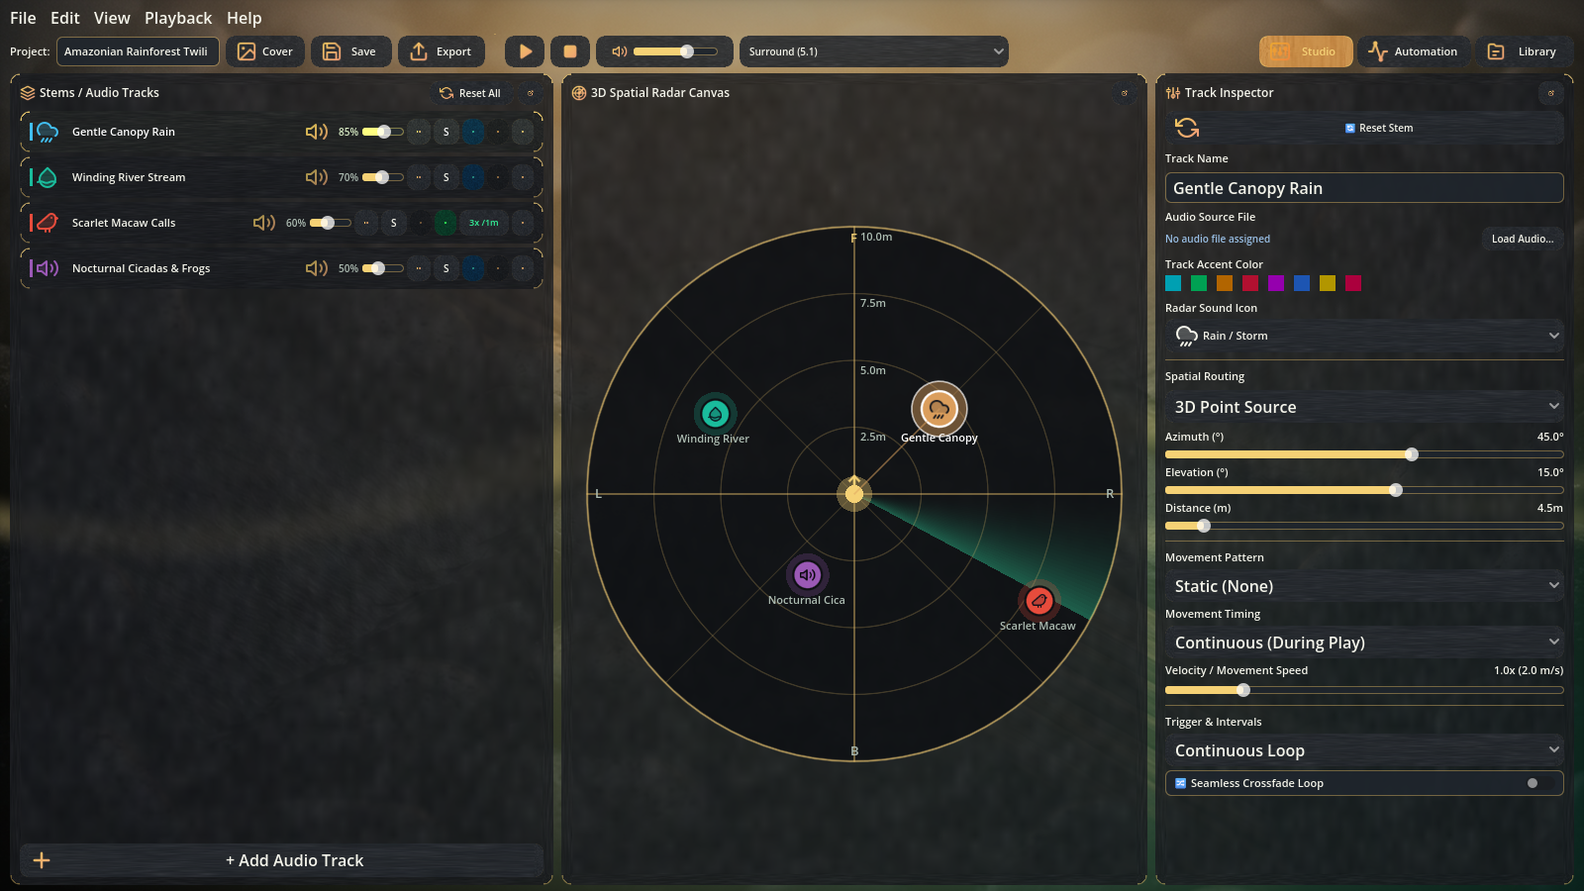
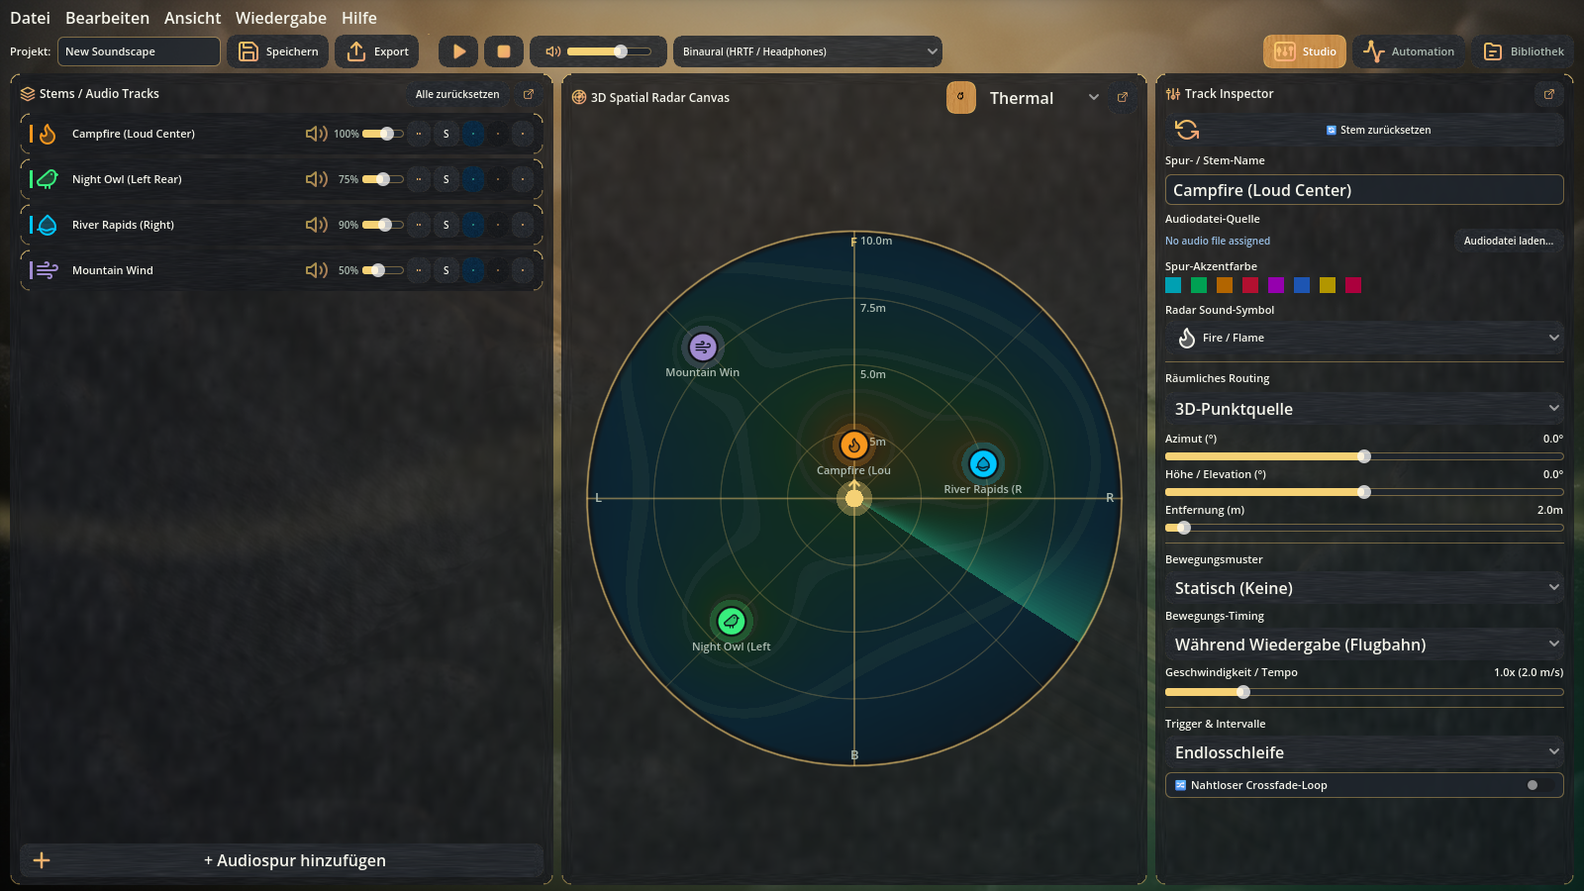
docs: update README, Wiki, and screenshots to latest feature set and add release downloads

diff --git a/README.md b/README.md
@@ -22,7 +22,10 @@ A modern, high-performance desktop Digital Audio Workstation (DAW), 3D spatial s
 **3D Soundscape Studio** and the **3D Ambient Player** empower sound designers, composers, tabletop RPG masters, game developers, and relaxation listeners to craft and enjoy living virtual audio environments in 3D space:
 
 - **🎧 Dedicated Standalone 3D Ambient Player (`3D-Ambient-Player`):** A lightweight, meditative player for Windows, Linux, macOS, Android, and iOS. Features an expandable Atmosphere Stem Mixer drawer, breathing vinyl visualizer halo, sleep timer with 15-second gentle audio fade-out, 1-click `.3dscape` package import, and theme customization without DAW overhead.
-- **💡 Native Philips Hue & Home Assistant Smart Lighting:** Synchronize your physical room lights with your soundscape. Features local Hue Bridge auto-discovery, 30-second push-link pairing, wide-gamut CIE 1931 xy color math, instant lightning strobe flashes ($0\text{ms}$ transition), fireplace hearth flicker, and listener proximity dimming.
+- **💡 Native Philips Hue & Home Assistant Smart Lighting:** Synchronize physical room lights with your soundscape. Features local Hue Bridge auto-discovery, 30-second push-link pairing, wide-gamut CIE 1931 xy color math, instant lightning strobe flashes ($0\text{ms}$ transition), fireplace hearth flicker, and listener proximity dimming.
+- **🧱 Acoustic Environments, Raycast Occlusion & Barriers:** Place physical barrier walls directly on the soundstage. Features real-time line-of-sight raycast occlusion that realistically muffles high frequencies while allowing low-end diffraction, plus environmental room reverb presets.
+- **🌡 Real-Time Acoustic Heatmap & Sound Pressure Field Visualizer:** High-performance GPU shader computing live sound pressure distributions with Iso-dB contour rings across 3 visual palettes (*Thermal*, *Phosphor*, *Cyberpunk*) toggled with **`H`**.
+- **🎵 Freesound.org REST API Integration & Audition Streaming:** Search and browse hundreds of thousands of open-source sound effects directly inside the studio with tag chips, CC0 / CC-BY license filters, zero-cache in-memory streaming audio preview, and 1-click 3D soundstage placement.
 - **⚡ 1-Click Dependency Downloader:** Automated cross-platform downloader and installer for `audio.cpp`, FFmpeg, and recommended AudioGen GGUF diffusion models on Windows, Linux, and macOS.
 - **📦 Portable Soundscape Project Packaging (`.3dscape` / `.zip`):** Export and import self-contained soundscape archives containing track coordinates, listener movement paths, trigger schedules, metadata, cover artwork, and all referenced audio stem files with zero missing-file errors.
 - **🎯 Interactive 3D Spatial Radar:** Visually position audio sources relative to a central listener with real-time azimuth, elevation, and distance attenuation (up to 30m soundspaces) with live drag & drop.
@@ -63,26 +66,42 @@ A modern, high-performance desktop Digital Audio Workstation (DAW), 3D spatial s
 
 ---
 
-## 🛠 Installation & Setup
+## 📥 Download & Installation
 
-### Prerequisites
+### 🚀 Pre-Compiled Releases (Recommended)
 
-- [Godot Engine 4.x](https://godotengine.org/download) (Standard build)
-- [FFmpeg](https://ffmpeg.org/download.html) (placed in system `PATH` or next to the application executable)
+Pre-built, standalone, ready-to-run releases are available for **Windows**, **Linux**, **macOS**, and **Android** on the official [**GitHub Releases**](https://github.com/adromir/3D-Soundscape-Studio/releases) page.
 
-### Running from Source
+| Target Platform | Package Format | Architecture | Highlights |
+| :--- | :--- | :--- | :--- |
+| **🪟 Windows** | `.msi` Setup Installer | `x64` | Native Windows Installer with Desktop & Start Menu shortcuts |
+| | `.zip` Portable | `x64`, `ARM64` | Standalone portable archive, zero installation required |
+| **🐧 Linux** | `.AppImage` Universal | `x86_64` | Self-contained universal binary, runs on all modern distributions |
+| | `.deb` Package | `amd64`, `arm64` | Native package for Debian, Ubuntu, Linux Mint, Pop!_OS |
+| | `.tar.gz` Portable | `x86_64`, `arm64` | Lightweight portable archive with executables and desktop icon |
+| | `.flatpak` Bundle | `x86_64` | Sandboxed desktop application package |
+| **🍎 macOS** | `.dmg` Disk Image | `Universal` (Apple Silicon & Intel) | Drag-and-drop installer into `/Applications` |
+| | `.zip` Portable | `Universal` (Apple Silicon & Intel) | Standalone `.app` bundle |
+| **🤖 Android** | `.apk` Package | `ARM64-v8a` | Standalone mobile ambient player for phones and tablets |
 
-1. Clone this repository:
+> 💡 **Both Applications Included:** Every release archive provides both the full **3D Soundscape Studio DAW** (`3D-Soundscape-Studio`) and the distraction-free **3D Ambient Player** (`3D-Ambient-Player`).
 
+---
+
+### 🛠 Running / Building from Source
+
+For developers modifying the code or contributing features:
+
+1. **Prerequisites:**
+   - [Godot Engine 4.3+](https://godotengine.org/download) (Standard build)
+   - [FFmpeg](https://ffmpeg.org/download.html) (placed in system `PATH` or next to executable)
+
+2. **Clone and Launch:**
    ```bash
-   git clone https://github.com/adromir/3d-soundscape-studio.git
+   git clone https://github.com/adromir/3D-Soundscape-Studio.git
+   cd 3D-Soundscape-Studio
    ```
-
-2. Open Godot Engine and import the project:
-   - Click **Import**
-   - Navigate to the cloned repository directory
-   - Select `project.godot`
-3. Press **F5** (or click **Play**) to launch the application.
+3. Open Godot Engine, import `project.godot`, and press **F5** to run.
 
 ---
 
@@ -90,79 +109,67 @@ A modern, high-performance desktop Digital Audio Workstation (DAW), 3D spatial s
 
 ### 1. Exporting & Importing Soundscape Packages (`.3dscape`)
 
-- **Export Package:**
-  - Go to **File > Export Soundscape Package (.3dscape)...** (`Ctrl+Shift+E`).
-  - Or click the **`[ 📦 ]`** button on any soundscape card in the Library.
-  - Or click **`[ 📦 Paket exportieren ]`** inside the Edit Soundscape modal or Export Dialog.
-- **Import Package:**
-  - Go to **File > Import Soundscape Package (.3dscape)...** (`Ctrl+Shift+I`).
-  - Or click **`[ 📦 Paket importieren... ]`** in the Soundscape Library TopBar or Download dialog.
-  - Or simply **drag and drop** a `.3dscape`, `.soundscape`, or `.zip` file anywhere onto the application window!
+- **Export Package:** Go to **File > Export Soundscape Package (.3dscape)...** (`Ctrl+Shift+E`), or click the **`[ 📦 ]`** button on any soundscape card.
+- **Import Package:** Go to **File > Import Soundscape Package (.3dscape)...** (`Ctrl+Shift+I`), or simply **drag and drop** a `.3dscape` file anywhere onto the window!
 
-### 2. Downloading from Ambient Mixer
+### 2. Positioning & Spatializing Tracks
 
-1. Switch to the **Library** tab (`F3`).
-2. Click **Download & Import...**.
-3. Enter the Ambient-Mixer URL (e.g. `https://www.ambient-mixer.com/mix/...`) or numeric template ID and choose a category.
-4. Click **Download & Import**. The stems, cover art, and spatial layout are automatically downloaded, converted, and saved to your local library.
+- **Drag & Drop:** Click and drag any audio stem puck on the central radar canvas to adjust azimuth and distance.
+- **Elevation & Spread:** Use the right-hand **Track Inspector** to adjust height ($-90^\circ$ to $+90^\circ$) and spatial spread.
+- **Routing:** Toggle between `3D Point Source`, `Omnipresent (All Around)`, or `Multi-Channel Specific` (`FL`, `FR`, `FC`, `LFE`, `BL`, `BR`, `SL`, `SR`, `TFL`, `TFR`, `TBL`, `TBR`).
 
-### 3. Positioning & Spatializing Tracks
+### 3. Acoustic Barriers & Sound Pressure Heatmap
 
-- **Drag & Drop:** Click and drag any audio stem circle on the central radar canvas to adjust azimuth and distance.
-- **Drag Audio Files:** Drag audio stems directly from the OS or Sample Browser onto the radar to place them at exact coordinates.
-- **Routing Mode:** In the right-hand **Track Inspector**, choose between:
-  - `3D Point Source`: Directional audio in spherical coordinates.
-  - `Omnipresent (All Around)`: Enveloping atmosphere surrounding the listener equally.
-  - `Multi-Channel Specific`: Route to discrete speaker channels (`FL`, `FR`, `FC`, `LFE`, etc.).
+- **Acoustic Heatmap:** Press **`H`** anytime to view the live GPU sound pressure field with Iso-dB contour rings in Thermal, Phosphor, or Cyberpunk palettes.
+- **Barrier Occlusion:** Draw physical wall obstacles on the radar; sound passing through walls is realistically muffled using dynamic low-pass filtering.
 
-### 4. Simulating Listener Movement (Automation Tab `F2`)
+### 4. Freesound.org & Local AI Audio Generation (`F4`)
 
-1. Switch to the **Automation** tab (`F2`).
-2. Click on the canvas to add waypoints for a walking listener path.
-3. Configure walking speed ($m/s$ or $km/h$) and toggle between **Closed Loop** and **Open Path**.
-4. Activate listener motion to experience a journey through your 3D sound environment.
+- Open the **Sample Browser** (`F4`).
+- **Freesound**: Search online sound effects by tags (`#Rain`, `#Thunder`, `#Campfire`), filter by CC0 licensing, and stream in-memory previews.
+- **Local AI Audio (`audio.cpp`)**: Enter a prompt (e.g. *"crackling campfire with gentle breeze"*) and render locally on CPU/GPU via GGUF models.
 
-### 5. Exporting Multi-Channel & Binaural Audio (`Ctrl+E`)
+### 5. Simulating Listener Movement (`F2`)
 
-1. Click **Export** in the top transport bar (`Ctrl+E`).
-2. Select your target speaker layout (`Binaural HRTF`, `Stereo`, `Quad 4.0`, `Surround 5.1`, `Surround 7.1`, or `7.1.4 Atmos`).
-3. Set the target duration and optional `.sofa` HRTF file.
-4. Click **🚀 Start Audio Render** to generate the offline master mixdown asynchronously.
+- Switch to the **Automation** tab (`F2`).
+- Click to place waypoints for walking paths, adjust speeds ($m/s$ or $km/h$), and toggle Open Path / Closed Loop modes.
 
-### 6. Seamless GitHub Releases Auto-Updater
+### 6. Exporting Multi-Channel & Binaural Audio (`Ctrl+E`)
 
-- Check for updates anytime via **Help > Check for Updates...** (`Hilfe > Nach Updates suchen...`).
-- Shows release notes, version differences (`v2.0.0` ➔ `v2.1.0`), and downloads update binaries directly.
-- On Windows and Linux, auto-applies the downloaded update package and restarts seamlessly.
-- Configurable in **Preferences > Display & Language** (`[x] Check for updates automatically on startup`).
+- Press **Export** (`Ctrl+E`).
+- Select speaker layout: `Binaural HRTF` (`.sofa`), `Stereo`, `Quad 4.0`, `Surround 5.1`, `Surround 7.1`, or `7.1.4 Dolby Atmos`.
+- Click **🚀 Start Audio Render** for deterministic, buffer-underrun-free offline rendering via FFmpeg.
 
-### 7. Using the Dedicated 3D Ambient Player
+### 7. Dedicated Standalone 3D Ambient Player
 
-For users who want pure ambient soundscape playback, relaxation, meditation, or sleep assistance without loading the full DAW:
+- **Launch Directly:** Run `3D-Ambient-Player.exe` (or pass `--player` / `-p`).
+- **Atmosphere Stem Mixer:** Expand the bottom drawer to adjust individual stem volumes (rain, wind, stream, wildlife).
+- **Sleep Timer:** Select 15m to 2h countdown with automatic 15-second gentle audio fade-out.
 
-- **Launch Directly:** Run `3D-Ambient-Player.exe` (or `3D-Ambient-Player.x86_64` / `.app`), or pass `--player` (or `-p`) on the command line.
-- **Atmosphere Stem Mixer:** Click the bottom drawer to expand real-time volume sliders and icons for each sound element (rain, wind, campfire, birds).
-- **Smart Sleep Timer:** Click the crescent moon icon in the header to select 15m, 30m, 45m, 1h, or 2h with a gentle 15-second volume fade-out.
-- **Library & Packages:** Click the Library button to switch soundscapes or import `.3dscape` package files.
-
-### 8. Philips Hue & Smart Ambient Lighting
+### 8. Philips Hue & Smart Ambient Lighting (`F7`)
 
 - Open **Tools > Visual Ambient Lighting (Hue & HA)...** (`F7`).
-- Click **🔍 Auto-Discover Bridge** or enter your Bridge IP manually.
-- Press the physical push-link button on your Hue Bridge and click **Pair with Bridge**.
-- Fetch and map lights to thunder lightning strobes, fireplace flickers, and walking proximity dimming.
+- Auto-discover local Hue Bridges, click Pair, and map lights to lightning flashes, candle hearth flicker, and distance-based dimming.
 
 ---
 
 ## 🖼 Screenshots
 
-| Studio Overview | 3D Spatial Radar & Inspector |
+| 🎛 3D Soundscape Studio DAW Overview | 🎯 3D Radar with Acoustic Heatmap (`H`) |
 | :---: | :---: |
-| ![Studio Overview](docs/images/01_studio_overview.png) | ![Track Inspector](docs/images/02_track_inspector_radar.png) |
+| ![Studio Overview](docs/images/01_studio_overview.png) | ![Acoustic Heatmap Radar](docs/images/02_track_inspector_radar.png) |
 
-| Listener Automation View | Soundscape Library & Package Management |
+| 🎧 Dedicated Standalone 3D Ambient Player | 💡 Philips Hue & Smart Ambient Lighting |
 | :---: | :---: |
-| ![Automation](docs/images/03_listener_automation_view.png) | ![Library](docs/images/05_soundscape_library_dialog.png) |
+| ![3D Ambient Player](docs/images/12_dedicated_ambient_player.png) | ![Philips Hue Integration](docs/images/13_philips_hue_smart_lighting.png) |
+
+| 🛤 Listener Automation & Motion Paths | 🎵 Freesound Search & AI Audio Generation |
+| :---: | :---: |
+| ![Listener Automation](docs/images/03_listener_automation_view.png) | ![Freesound and AI Generation](docs/images/14_ai_audio_and_freesound.png) |
+
+| 📚 Soundscape Library & Packaging | 🔊 Multi-Channel Surround & Offline Export |
+| :---: | :---: |
+| ![Library](docs/images/05_soundscape_library_dialog.png) | ![Surround Export](docs/images/06_export_surround_dialog.png) |
 
 ---
 

diff --git a/wiki/Home.md b/wiki/Home.md
@@ -12,10 +12,14 @@ Welcome to the official documentation for **3D Soundscape Studio**, a next-gener
 | :--- | :--- |
 | 📦 **Portable Soundscape Packages (`.3dscape`)** | Export and import self-contained soundscapes containing all spatial coordinates, schedules, metadata, cover artwork, and audio stems in a single file for instant sharing. |
 | 🎯 **Interactive 3D Spatial Radar** | Place audio sources on an intuitive polar coordinates radar with real-time azimuth, elevation, and distance attenuation (up to 30 meters) with live drag & drop. |
+| 🧱 **Acoustic Barriers & Raycast Occlusion** | Physical wall geometry blocking and muffling audio with frequency-dependent low-pass filtering and environmental reverb room zones. |
+| 🌡 **Acoustic Heatmap & Sound Pressure Field** | Real-time GPU shader visualizing live sound pressure distributions with Iso-dB contour rings and 3 color palettes (Thermal, Phosphor, Cyberpunk) (`H`). |
 | 🛤 **Listener Automation & Motion Paths** | Draw smooth motion paths for a virtual walking listener with speed controls ($m/s$ & $km/h$), open/closed loop modes, and live distance/time stats. |
 | 🎛 **Multi-Track Stem Mixer & In-Inspector Matrix** | Control stem volumes, mute/solo states, random/periodic trigger rates, seamless crossfade loops, and discrete in-inspector multi-channel routing (`FL`, `FR`, `FC`, `LFE`, `BL`, `BR`, `SL`, `SR`, `TFL`, `TFR`, `TBL`, `TBR`). |
 | 📚 **Built-In Library & Ambient-Mixer Import** | Browse soundscapes, edit metadata and cover art, import XML templates directly from ambient-mixer.com, and manage custom audio sample banks. |
+| 🎵 **Freesound.org REST API & Sample Browser** | Discover thousands of open-source sound effects with tag chips, CC0/CC-BY license filtering, zero-cache streaming preview, and 1-click soundstage placement. |
 | 🤖 **Local AI Audio Generation (`audio.cpp`)** | Generate ambient sound effects and loops completely locally using native C++ inference and GGUF models directly within the sample browser. |
+| ⚡ **1-Click Dependency Downloader** | Integrated cross-platform downloader and installer for `audio.cpp`, FFmpeg, and recommended AudioGen GGUF models across Windows, Linux, and macOS. |
 | 🔊 **Multi-Channel Surround & FFmpeg Export** | Real-time playback and offline mixdown to Stereo Binaural (HRTF / SOFA), Quadraphonic 4.0, 5.1 Surround, 7.1 Surround, and 7.1.4 Dolby Atmos. |
 | 🎧 **SOFA HRTF Spatialization** | Load custom measured Head-Related Transfer Function profiles (`.sofa`) for personalized 3D headphone listening. |
 | 🎨 **Pro DAW Liquid Glass & 8 Themes** | Choose between 8 handcrafted visual styles: *Aetheric Dark*, *Studio Light*, *Cyberpunk Neon*, *Warm Fantasy*, *Holo Sci-Fi*, *Antique Sepia*, *Emerald Jungle*, and *Abyss Ocean*. |
@@ -48,9 +52,11 @@ Welcome to the official documentation for **3D Soundscape Studio**, a next-gener
 ## 🧭 Wiki Documentation Index
 
 - **[🎯 3D Spatial Audio Radar](3D-Spatial-Audio-Radar.md)**: Master polar spatialization, distance attenuation, and visual source markers.
+- **[🧱 Acoustics, Barriers & Heatmap](Acoustics-Raycast-Occlusion-&-Heatmap.md)**: Design physical barrier walls, simulate line-of-sight raycast occlusion, and view real-time sound pressure heatmaps.
 - **[🛤 Listener Automation & Motion](Listener-Automation-&-Motion.md)**: Design dynamic movement paths, speed regulation, and waypoint curves.
 - **[🎛 Stem Audio Tracks & Parameter Inspector](Stem-Audio-Tracks-&-Parameter-Inspector.md)**: Configure stems, volume curves, trigger intervals, and channel routing.
 - **[📚 Soundscape & Samples Library](Soundscape-Library-&-Ambient-Mixer-Import.md)**: Manage sound collections, `.3dscape` packaging, custom sample categories, and online imports.
+- **[🎵 Freesound & Sample Browser](Freesound-&-Sample-Browser.md)**: Explore the online Freesound library with zero-cache streaming and local sample banks.
 - **[🤖 AI Audio Generation](AI-Audio-Generation.md)**: Guide to configuring local `audio.cpp` models and generating sounds from text prompts.
 - **[🔊 Multi-Channel Surround & Offline Export](Multi-Channel-Surround-&-Offline-Export.md)**: Set up speaker configurations, SOFA profiles, and FFmpeg mixdowns.
 - **[🎧 SOFA HRTF & Spatial Audio Guide](SOFA-HRTF-Spatial-Audio-Guide.md)**: Deep dive into HRTF filters, SOFA database sources, and personalized binaural audio.

diff --git a/wiki/Acoustics-Raycast-Occlusion-&-Heatmap.md b/wiki/Acoustics-Raycast-Occlusion-&-Heatmap.md
@@ -1,0 +1,50 @@
+# 🧱 Acoustic Environments, Raycast Occlusion & Sound Pressure Heatmap
+
+**3D Soundscape Studio** features advanced physics-based acoustic simulation, including real-time raycast line-of-sight occlusion, physical wall barriers, environmental reverberation zones, and an interactive GPU-accelerated acoustic heatmap.
+
+![Acoustic Heatmap & Radar](https://raw.githubusercontent.com/adromir/3D-Soundscape-Studio/main/docs/images/02_track_inspector_radar.png)
+
+---
+
+## 🌡 Real-Time Acoustic Heatmap
+
+The Acoustic Heatmap provides an instant visual sound pressure field ($L_p$ in decibels) across your virtual soundscape.
+
+### How It Works
+- **GPU Accelerated Shader**: Built on `acoustic_heatmap.gdshader`, the heatmap computes inverse-square sound energy falloff and interference patterns from all playing audio sources in parallel.
+- **Iso-dB Contour Rings**: High-contrast geometric contour rings illustrate sound dissipation boundaries and pressure gradients.
+- **3 Dynamic Color Palettes**:
+  1. **Thermal**: Deep indigo into warm amber and radiant red for intuitive loudness perception.
+  2. **Phosphor**: Tactical monochromatic radar green reminiscent of vintage military acoustics equipment.
+  3. **Cyberpunk**: High-contrast neon magenta and cyan aesthetic.
+- **Instant Hotkey Toggle**: Press **`H`** anytime to toggle the heatmap overlay on both the **Studio 3D Radar** (`F1`) and the **Story Automation Walkthrough Canvas** (`F2`).
+
+---
+
+## 🧱 Physical Barriers & Raycast Occlusion
+
+Create complex architectural and natural acoustic spaces by drawing physical barriers directly onto the soundstage.
+
+### Line-of-Sight Raycasting
+1. **Ray Intersection**: The `SpatialEngine` casts real-time geometric rays between the listener's head and each active audio stem puck.
+2. **Frequency-Dependent Filtering**: When a wall interrupts the direct line of sight:
+   - **Low-Pass Muffler**: High and mid frequencies are sharply attenuated ($f_c \approx 450\text{ Hz}$ to $1200\text{ Hz}$), replicating physical sound absorption through solid obstacles.
+   - **Low-End Bleed**: Deep bass and low-frequency rumble pass through with minor dampening, accurately modeling acoustic diffraction.
+   - **Volume Attenuation**: Direct signal amplitude is dampened by $-6\text{ dB}$ to $-18\text{ dB}$ depending on the obstacle thickness.
+3. **Interactive Editing**: Draw, move, and reshape barrier vectors on the radar canvas with live acoustic feedback.
+
+---
+
+## 🏛 Acoustic Zones & Environmental Reverb
+
+Divide your soundscape into distinct acoustic rooms or environmental zones:
+
+| Zone Preset | Decay Time ($RT_{60}$) | Damping | Description |
+| :--- | :--- | :--- | :--- |
+| **Forest Glade** | $0.4\text{ s}$ | High | High foliage absorption, soft early reflections. |
+| **Cozy Wooden Cabin** | $0.6\text{ s}$ | Moderate | Warm timber resonances with gentle warmth. |
+| **Cathedral / Temple** | $3.5\text{ s}$ | Low | Expansive stone reflections, long lingering reverb tail. |
+| **Cavern / Cave** | $2.8\text{ s}$ | Very Low | Hard reflective walls, echoing slapback delay. |
+| **Modern Studio Room** | $0.3\text{ s}$ | Extreme | Acoustically treated dry room for clinical monitoring. |
+
+When listener automation paths cross into a new acoustic zone, reverb sends and room filters blend smoothly with adjustable crossfade curves.

diff --git a/wiki/Freesound-&-Sample-Browser.md b/wiki/Freesound-&-Sample-Browser.md
@@ -1,0 +1,43 @@
+# 🎵 Freesound.org & Integrated Sample Browser
+
+The **Sample Browser** (`F4`) in 3D Soundscape Studio is a full-featured sound management and discovery hub. It combines local sample library browsing, direct text-to-sound AI generation (`audio.cpp`), and full integration with the **Freesound.org** public audio database.
+
+![Sample Browser & Freesound](https://raw.githubusercontent.com/adromir/3D-Soundscape-Studio/main/docs/images/14_ai_audio_and_freesound.png)
+
+---
+
+## 🌐 Freesound.org REST APIv2 Integration
+
+Discover thousands of high-quality environmental sound effects and field recordings directly inside the Studio without opening a web browser:
+
+### Key Capabilities
+- **Quick Tag Chips**: 1-click search tags for common ambient soundscape elements:
+  - `#Rain`, `#Thunder`, `#Campfire`, `#Wind`, `#Birds`, `#Stream`, `#Waves`, `#Footsteps`, `#Clock`, `#Chimes`
+- **Licensing Filters**:
+  - **Creative Commons 0 (CC0)**: 100% public domain, free for commercial and non-commercial works with zero attribution requirements.
+  - **Attribution (CC-BY)**: Requires creator credit.
+  - **All Licenses**: Browse the complete Freesound library.
+- **Duration Sliders**: Filter between short punchy sound cues (e.g. $0.5\text{s}$ twig snap) and expansive atmospheric loops ($60\text{s}+$ rainstorms).
+- **Zero-Footprint In-Memory Streaming**: Audition preview tracks instantly in RAM without creating cluttering cache files on your hard drive.
+- **1-Click 3D Stem Placement**: Click **`+ Add to Soundscape`** to download, normalize, and automatically position the sound onto the 3D radar canvas.
+
+---
+
+## 📁 Local Sample Bank Management
+
+Organize your personal library of audio recordings, foley stems, and sound effects:
+
+- **Supported Audio Formats**: `.wav` (16/24/32-bit float, uncompressed PCM), `.ogg` (Vorbis), `.mp3`, and `.flac`.
+- **Drag & Drop Auditioning**: Drag any audio file from Windows File Explorer, macOS Finder, or Linux file managers directly onto the Sample Browser to audition or categorize.
+- **Metadata Tagging**: Assign tags, categories, author attribution, and descriptive notes.
+- **Direct Radar Dragging**: Drag sound cards from the Sample Browser directly onto any position on the 3D radar soundstage!
+
+---
+
+## 🤖 Local AI Audio Generation Panel
+
+Located directly alongside the sample browser:
+- Enter descriptive text prompts (e.g. *"crackling pine wood campfire with wind embers"*).
+- Select duration and diffusion steps.
+- Renders entirely on your local CPU or GPU using native `audio.cpp` C++ inference with zero data sent to external cloud servers.
+- Generated samples are immediately auditionable and ready for 3D spatialization.

diff --git a/wiki/_Sidebar.md b/wiki/_Sidebar.md
@@ -2,9 +2,11 @@
 
 - **[📖 Getting Started](Home)**
 - **[🎯 3D Spatial Audio Radar](3D-Spatial-Audio-Radar)**
+- **[🧱 Acoustics, Barriers & Heatmap](Acoustics-Raycast-Occlusion-&-Heatmap)**
 - **[🛤 Listener Automation & Motion](Listener-Automation-&-Motion)**
 - **[🎛 Stem Audio Tracks & Inspector](Stem-Audio-Tracks-&-Parameter-Inspector)**
 - **[📚 Soundscape Library & Import](Soundscape-Library-&-Ambient-Mixer-Import)**
+- **[🎵 Freesound & Sample Browser](Freesound-&-Sample-Browser)**
 - **[🤖 AI Audio Generation](AI-Audio-Generation)**
 - **[🔊 Surround Sound & Export](Multi-Channel-Surround-&-Offline-Export)**
 - **[🎧 SOFA & HRTF Audio Guide](SOFA-HRTF-Spatial-Audio-Guide)**
